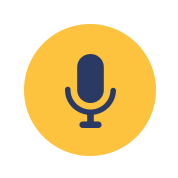
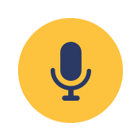
update: 修改录音样式

diff --git a/components/wxrecord.js b/components/wxrecord.js
@@ -121,6 +121,9 @@ export default class WxRecord extends React.Component {
         <style jsx>{`
           .icon {
             text-align: center;
+            display: flex;
+            margin-left: 50%;
+            transform: translateX(-50%);
           }
         `}</style>
       </div>
